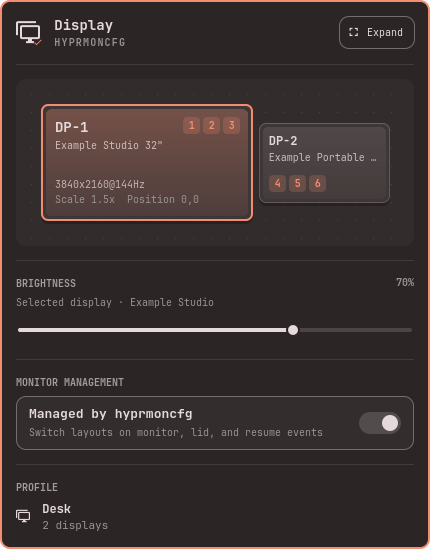
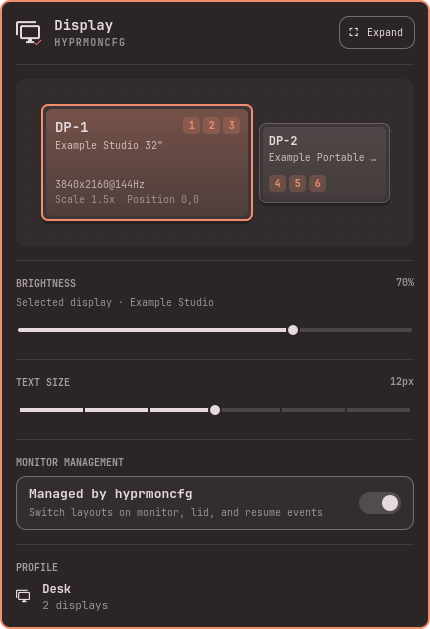
Release 2.7.0
The Text size slider, travelling workspace chips and the scrolling
compact view, with refreshed screenshots, a preview that shows the
slider, and release notes.

diff --git a/design/releases/2.7.0.md b/design/releases/2.7.0.md
@@ -1,0 +1,32 @@
+# hyprmoncfg panel 2.7.0
+
+The panel gets Omarchy's Text size slider, and workspace numbers now glide between displays when their plan changes. It works with [hyprmoncfg 1.19.0](https://github.com/crmne/hyprmoncfg/releases/tag/v1.19.0) or newer; [1.22.0](https://github.com/crmne/hyprmoncfg/releases/tag/v1.22.0) is recommended.
+
+![The compact panel at 12 px and at 16 px text, with the Text size slider under Brightness](https://raw.githubusercontent.com/crmne/omarchy-hyprmoncfg/v2.7.0/design/releases/2.7.0-text-size.png)
+
+*Synthetic displays, rendered offscreen.*
+
+## New
+
+- **Text size, as in Omarchy's own Display panel.** The compact view has the same slider under Brightness, with the same stops from 9 to 20 px. It changes text across the desktop, in the Omarchy shell, GTK apps and terminals, by running Omarchy's own `omarchy-display-text-size`. Like brightness, it is a desktop setting: it isn't saved in profiles and applies to every display. To make everything larger on one display, use Scale.
+- **Workspaces glide to their new display.** When you switch between Sequential and Interleave, change the group size or reassign a workspace, each number moves from its old display to its new one instead of jumping, so you can see where it went. Numbers that stay on their display don't move.
+
+![Four frames of workspace numbers travelling between three displays as the plan changes from Sequential to Interleave](https://raw.githubusercontent.com/crmne/omarchy-hyprmoncfg/v2.7.0/design/releases/2.7.0-chip-travel-grid.png)
+
+*The glide takes about a quarter of a second; these frames are slowed down.*
+
+## Fixed
+
+- **The compact view stays usable when it outgrows the screen.** With large text or many displays it used to cut off its bottom rows. Its header and the Profile actions now stay in place and the part between them scrolls.
+
+## Known limitations
+
+- **The glide is skipped** when more than 12 numbers would move, while you drag a display or the panel resizes, on display cards too small to show separate numbers, and when Hyprland animations are turned off.
+- **Text size needs Omarchy's `omarchy-display-text-size`.** Without it the slider is hidden.
+- **The Keep and Revert bar scrolls with the compact view** when the view is taller than the screen, and is brought into view when it appears.
+
+## What's tested
+
+Node tests (177), offscreen QML tests (21), checks that drive the real panel in an isolated host (58) and plugin validation pass. The images were rendered offscreen with sample data. Live use so far is limited to the maintainer's desktop, and scrolling the compact view with a mouse wheel or touchpad hasn't been tried.
+
+**Full changelog**: https://github.com/crmne/omarchy-hyprmoncfg/compare/v2.6.0...v2.7.0

diff --git a/README.md b/README.md
@@ -4,7 +4,7 @@ An Omarchy bar panel for [hyprmoncfg](https://hyprmoncfg.dev/). Create multi-mon
 
 ![hyprmoncfg for Omarchy](preview.png)
 
-Version 2.6 draws your displays as screens on a stage, sizes the panel to what it shows, and gives every setting a control that fits it. The compact view leads with the layout; expand it for the full editor. The companion TUI shares the same design, placement rules and display terminology, with native keyboard-first controls. See the [release notes](design/releases/2.6.0.md) for highlights and remaining differences.
+Version 2.7 adds Omarchy's Text size slider to the compact view and lets workspace numbers glide between displays when their plan changes. The panel draws your displays as screens on a stage, sizes itself to what it shows, and gives every setting a control that fits it. The companion TUI shares the same design, placement rules and display terminology, with native keyboard-first controls. See the [release notes](design/releases/2.7.0.md) for highlights.
 
 Screenshots show the actual panel with synthetic display/profile data in an isolated capture host, not a live hardware test. The preview above combines two of those renders, the compact panel and the expanded editor, over Omarchy's ristretto wallpaper.
 
